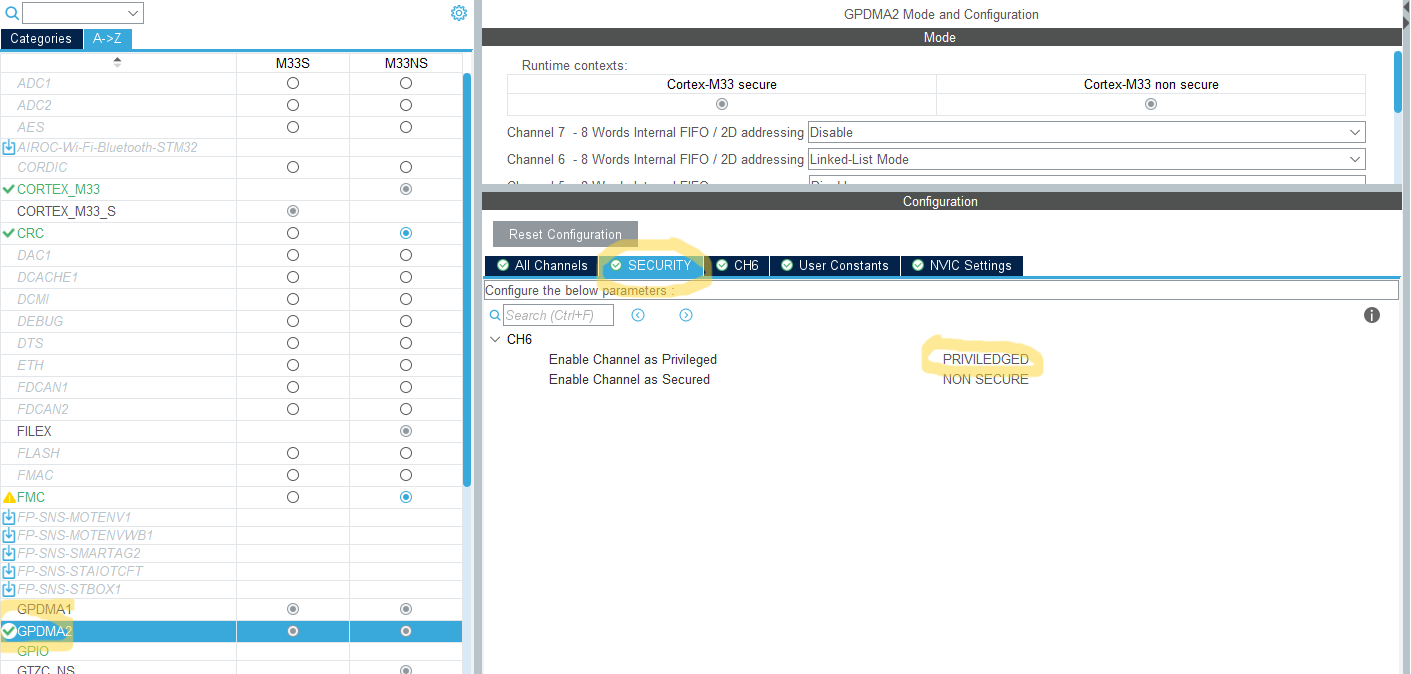
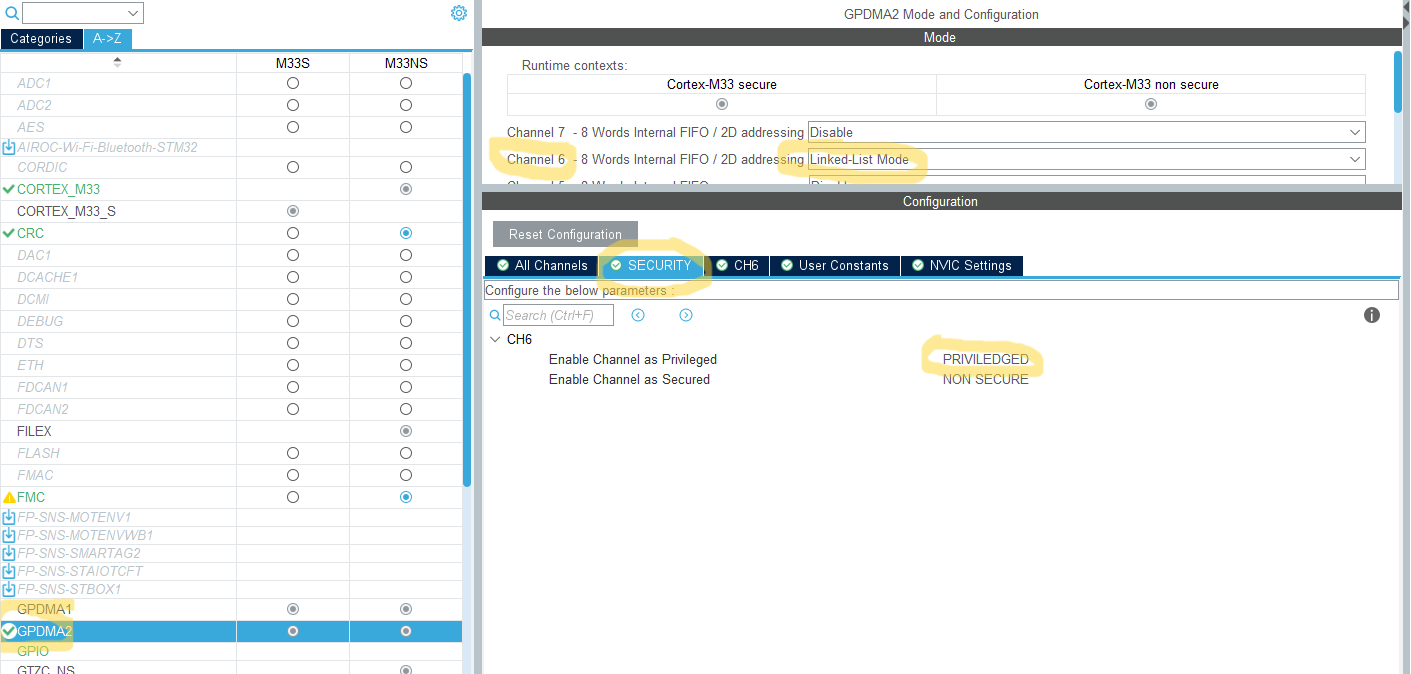
- finalizing readme

Changed region(s): [[0.5301, 0.1869, 0.6549, 0.2804], [0.343, 0.1869, 0.4366, 0.2804]]

diff --git a/README.md b/README.md
@@ -1,43 +1,66 @@
-# Create and debug TouchGFX application with in Secure and Non-Secure project setup
+# Create and debug TouchGFX application with Secure and Non-Secure project setup
 
 Prerequisites:
-- STM32CubeMX(1)
-- STM32CubeIDE
-- STM32H573I-DK
+- [STM32CubeMX (1)](https://www.st.com/en/development-tools/stm32cubemx.html)
+- [STM32CubeIDE](https://www.st.com/en/development-tools/stm32cubeide.html)
+- [STM32H573I-DK](https://www.st.com/en/evaluation-tools/stm32h573i-dk.html) + USB-C cable
+- [TouchGFX Framework](https://support.touchgfx.com/docs/introduction/installation) (X-CUBE-TOUCHGFX middleware, TouchGFX Designer installed)
+- [STM32CubeProgrammer GUI](https://www.st.com/en/development-tools/stm32cubeprog.html)
 
-In this repository you fill find complete working project tested on STM32H573I-DK board.
+This tutorial guides you through a process of creation a **TouchGFX** application starting from the **STM32CubeMX** with a **STM32H5** device with **TrustZone®** (TZ) activated and **Secure** and **Non-Secure** project structure.
+
+In this repository you will find a complete working project tested on the **STM32H573I-DK** board. If you don't want to follow the tutorial, just download the repository, open and build the project.
+
+Note:
+>The Touch screen handling or external flash memory storage is not implemented in this tutorial to keep the tutorial simpler.
 
 ## Configure the Option Bytes
 
 At first, it is needed to prepare STM32H5 device and configure its ***Option Bytes*** to be able to run secure and non-secure application.
 
-1) Connect the board to the PC.
-2) Open STM32CubeProgrammer GUI.
-3) Connect to the STM32H573.
-4) Activate TZ (TrustZone®) ***TZEN*** == B4 and ***Flash Water Mark*** for Flash ***Bank 1*** (Secure) and ***Bank2*** (Non-Secure)*
+1) Connect the board to the PC using USB-C cable.
+2) Open **STM32CubeProgrammer** GUI.
+3) Connect to the STM32H573 by clicking green **Connect** button.
+4) Go to **OB** icon (left vertical bar) and activate TZ: ***TZEN*** == B4 and ***Flash Water Mark*** for Flash ***Bank 1*** (Secure) and ***Bank2*** (Non-Secure)*
+5) Click blue button **Apply**
 
-(*) keeping the _STRT value greater than _END value means sector disabled. See the picture bellow and Bank2 configuration.
+(*) *keeping the _STRT value greater than _END value means sector disabled. See the picture bellow and Bank2 configuration.*
 
 ![](imgs/programmer.png)
 
+Double check **enabled** secure watermark area applied for **Bank1 (0x0 to 0x7f range)** and **disabled** secure watermark area for the **Bank2 (0x1 to 0x0)**. If the secure watermak was enabled also for Bank2 (0x0 to 0x7f) then set back (0x1 to 0x0) and click again blue **Apply** button. The result must be the same like on the picture above.
+
+6) Disconnect from the board by clicking green **Disconnect** button.
+
 ## Create a new project using STM32CubeMX
 
+1) Open **STM32CubeMX**
+2) Start **New project** form MCU and type "STM32H573i" into the searching field and select the parnumber on **STM32H573I-DK** board. Then click blue **Start Project** button.
+![](imgs/MX_stm32h573i.png)
+
+3) Click **Yes** for MPU default settings.
 ![](imgs/ICacheMPUYes.png)
 
+4) Select "**With TrustZone activated**" and click **OK**.  
 ![](imgs/TZYes.png)
 
-Configure PI1 pin as GPIO output push/pull and add User Label "GREEN_LED":
-
+5) In the **Pinout & Configuration** view, configure **PI1** pin as GPIO output push/pull and add **User Label** "GREEN_LED". Assign the pin to the **non-secure** world.
 ![](imgs/PinMX.png)
+![](imgs/PI1.png)
 
-Give the project some name and don't forgot to **uncheck** "Generate Under Root" (this is required by TouchGFX project which will be added later. TouchGFX generator needs to touch .cprojet file and if generated under root, TouchGFX will not find that project file):
+6) Set **HCLK** to maximum frequency **250** MHz. Just put value 250 in HCLK box, confirm by pressing enter and let the **STM32CubeMX** do the job to find the solution.
+![](imgs/CLK250MHz.png)
 
+7) Give the project some name and don't forgot to **uncheck** "**Generate Under Root**" (this is required by TouchGFX project which will be added later. TouchGFX generator needs to touch .cprojet file and if generated under root, TouchGFX will not find that project file resulting in an error after code generation in TouchGFX Designer). As a toolchain select **STM32CubeIDE**. Click the button **Generate Code**.
 ![](imgs/UnderRoot.png)
 
 ## Open the project in STM32CubeIDE
 
-Add these lines in Non-Secure main.c which make the green LED blink:
+The STM32CubeMX creates hiearchical project with root project with the given name and two subprojects with given name and _Secure and _NonSecure suffixes.
 
+![](imgs/SecNonSec.png)
+
+1) Add the lines of code making LED blinking in **Non-Secure** **main.c**.
 ```cpp
 int main(void)
 {
@@ -45,7 +68,7 @@ int main(void)
   /* USER CODE BEGIN WHILE */
   while (1)
   {
-	  HAL_GPIO_TogglePin(LED_GREEN_GPIO_Port, LED_GREEN_Pin);
+	  HAL_GPIO_TogglePin(GREEN_LED_GPIO_Port, GREEN_LED_Pin);
 	  HAL_Delay(250);
     /* USER CODE END WHILE */
 
@@ -54,120 +77,150 @@ int main(void)
   /* USER CODE END 3 */
 }
 ```
+2) Press **Ctrl + B** to build all, no errors should appear.
 
 ### Setup Debug
 
+1) Click with **right mouse button** on _Secure project and select **Debug As** > **STM32 C/C++ Application**
+
+2) In the **debug Configuration** click on **Startup** tab and add a **NonSecure image** in **Load Image and Symbols** list. Change **Build Configuration** to **Debug** for NonSecure project. Keep the rest untouched.
 ![](imgs/DebugSetup.png)
 
-The application boots in a secure state when ***TrustZone®*** is enabled. The debugger sets the ***Program Counter*** using information from the last image in the ***Load image*** and ***Symbols*** table. Make sure the **secure** image is **at the bottom** of the load list.
-
+The application boots in a secure state when ***TrustZone®*** is enabled. The debugger sets the ***Program Counter*** using information from the last image in the ***Load image and Symbols*** table. Make sure the **Secure** image is **at the bottom** of the load list.
 ![](imgs/SecureBottom.png)
+
+3) Click **OK** button to launch the debug session.
+
+You should see the PC at **main.c** in **Secure** project. If you run the application (using **F8** key or **Play** button), the **Secure** code will execute and jump to **NonSecure** application and you should see the **LD6** blinking. This is to verify we have working **Secure** and **NonSecure** application setup and we are able to debug it.
 
 When you run debug next time, be sure to select Secure project when launching debug.
 
-![](imgs/Launch.png)
-
-If you run the application you should see the LD6 blinking. This is to verify we have working Secure and Non-Secure application setup and we are able to debug it.
+![](imgs/DebugLaunch.png)
 
 ## Add TouchGFX SW packgage X-CUBE-TouchGFX
 
-Go to ***Software Packs*** drop down menu and click ***Select Components*** option.
-
+1) Go to **Software Packs** drop down menu and click **Select Components** option.
 ![](imgs/OpenSWPacks.png)
 
-In the ***Software Packs Component Selector*** be sure to select ***Cortex-M33 non secure*** context because the TouchGFX can run only in non secure context.
-
+2) In the **Software Packs Component Selector** be sure to select **Cortex-M33 non secure** context because the **TouchGFX** can run only in **non secure** context.
 ![](imgs/SWPacksTGFX.png)
 
-Then we need to activate TouchGFX middleware.
-
+3) Then we need to activate **TouchGFX** middleware.
 ![](imgs/EnableTGFX.png)
 
-Solve the Dependencies error. The TouchGFX needs to have available CRC peripheral to proper function. You don't need to configure the CRC peripheral, just activate it using check box.
-
+4) Solve the Dependencies error. The **TouchGFX** needs to have available **CRC** peripheral to proper function. You don't need to configure the **CRC** peripheral, just activate it using check box. **CRC** belongs to **non secure** context.
 ![](imgs/ActivateCRC.png)
 
-Activate the FMC
-
-The display on STM32H573I-DK board is connected with 16-bit data bus. To interface this display (equipped with Sitronix ST7789H2 controller) we can use FMC peripheral with LCD mode.
-
-Configure the FMC according to the pictures bellow:
-
+5) Activate the **FMC** for **non secure** context. The display on **STM32H573I-DK** board is connected with 16-bit data bus. To interface this display (Sitronix ST7789H2 controller) we can use **FMC** peripheral with LCD mode. Configure the **FMC** according to the pictures bellow. Disable the **Write FIFO**.
 ![](imgs/MX_FMC_1.png)
 
-Adjust pin assignment according the picture bellow (some of the dedicated pins would need to be moved to alternate position). All the pins, as FMC peripheral itself, belongs to the non-secure world:
-
+6) Check the **FMC** pin assignment according the picture bellow, sorted by **Signal name** (move pins to alternate position if needed to be inline with picture). All the pins, as **FMC** peripheral itself, belongs to the **non secure** context.
 ![](imgs/MX_FMC_pins.png)
 
-Adjust TouchGFX configuration in CubeMX
-
-Once we have activated the FMC controller, we can adjust configuration in the CubeMX for TouchGFX middleware to use FMC.
-
+7) Adjust **TouchGFX** configuration in **STM32CubeMX**. Once we have activated the **FMC** controller, we can adjust configuration in the **STM32CubeMX** for **TouchGFX** middleware to use **FMC**. Set proper display size (240 x 240 px) and select **double frame buffer** - it will fit inside the internal SRAM (double FB size = 240 x 240 x 2 x 2 = 225 KB)
 ![](imgs/CubeMX_TGFX_FMC.png)
 
-If you generate by CubeMX the project now (just enabling TouchGFX and CRC) and then try to build the project, you will receive an errors, because the project is not complete.
+If you generate the project by **STM32CubeMX** now and then try to build the project, you will receive **expected errors**, because the project is **not complete**.
 
 ![](imgs/Errors.png)
 
-We must generate project in the TouchGFX Designer to have complete project.
+We must generate project in the **TouchGFX Designer** to have complete project.
 
-1) Open the ***.touchgfx.part*** partial project file located in /NonSecure/TouchGFX/:
+## Generate TouchGFX project in the TouchGFX Designer
 
+1) Open the **.touchgfx.part** partial project file located in /NonSecure/TouchGFX/:
 ![](imgs/part.png)
 
 2) This will open the project in the ***TouchGFX Designer***. There you can select ***blank UI*** for initial project and click on ***Import*** button.
-
 ![](imgs/TouchGFXDesigner-BlankUI.png)
 
-3) Add some basic shapes on the screen (canvas) to see later at least something on the display. You can put a white rectangle and spread it across all the screen to create a white background and then place somewhere a circle of any color.
-
+3) Add some basic shapes on the screen (canvas) to see at least something on the display later. You can put a white rectangle and spread it across all the screen to create a white background and then place somewhere a circle of any color.
 ![](imgs/TouchGFXDesigner_canvas.png)
 
-4) Now just click Generate button (or press F4) to generate TouchGFX project.
-
+4) Now just click **Generate button** (or press F4) to generate **TouchGFX** project.
 ![](imgs/TouchGFXDesignergenerate.png)
 
 5) You should see green label at the bottom status bar informing about successfull generation.
-
 ![](imgs/TouchGFXDesigner-success.png)
 
-At this point the TouchGFX application will not be showing anything on the display and would require some more adjustments.
+At this point we are **able to build** the application **without any error**. If you start debugging, you will see running **TouchGFX** application. But the **TouchGFX** application will not be showing anything on the display and requires some more adjustments. 
+
+Before we proceed further, **remove** or comment out **testing code** in the main.c (**non secure**) which blinks the green LED.
+
+```cpp
+...
+  // HAL_GPIO_TogglePin(GREEN_LED_GPIO_Port, GREEN_LED_Pin);
+  // HAL_Delay(250);
+...
+```
 
 ## GPIOs
 
-We need to add some more GPIOs to handle display correctly. Configure the GPIO pins with the given **User Labels**.
+We need to add some more **GPIOs** to handle display correctly. Configure the GPIO pins with the given **User Labels**.
 
-1) The pin enabling power to display **PC6** (with label "**LCD_DISP**"). Default GPIO output level **Low** means the display will have a power just after initialization of this pin.
+1) The pin enabling power to display **PC6** (with label "**LCD_DISP**") - GPIO **output** push/pull. Default **GPIO output level** **Low** means the display will have a power just after initialization of this pin.
 
-2) Input pin catching tearing effect (TE) signal from the display **PD3** (put there label "**LCD_TE**"). We need to enable **GPIO_EXTI3** on this pin to catch interrupts from the display TE pin.
-![](imgs/EXTI3.png)
+2) **Input** pin catching tearing effect (TE) signal from the display **PD3** (put there label "**LCD_TE**"). We need to enable **GPIO_EXTI3** on this pin to catch interrupts from the display TE pin. (**TouchGFX** rendering is triggered by this signal)
+![](imgs/EXTI3.png) 
+Then go to **NVIC_NS** settings and enable interrupts on **EXTI line 3** by clicking on the checkbox.
+![](imgs/NVIC_EXTI3.png)
 
-3) The pin controlling the display reset line **PH13** (with label "**LCD_RESET**").
+3) The pin controlling the display reset line **PH13** (with label "**LCD_RESET**"). GPIO **output** push/pull with **GPIO output level** **High**.
 
-4) The pin controlling the backlight **PI3** (with label "**LCD_BL_CTRL**"). Nothing special here, we just configure the pin with the **GPIO output level** to be **High** which means that after the pin initialization the backlight will be on.
+4) The pin controlling the backlight **PI3** (with label "**LCD_BL_CTRL**"). GPIO **output** push/pull with **GPIO output level** **High** which means that after the pin initialization the display backlight will be on.
 
 See the summary bellow:
 ![](imgs/GPIOs.png)
 
 ## Adjust avaliable heap and stack size
 
-TouchGFX application would require more RAM memory than default values for heap and stack size. Enlarge stack and heap size for non-secure application in CubeMX Project Manager.
+TouchGFX application would require more RAM memory than default values for heap and stack size. Enlarge stack and heap size for non-secure application in STM32CubeMX Project Manager.
 
 ![](imgs/MX_heapStack.png)
 
-Be aware that if you modify the linker file manually in the linker file then it will be re-generated (reverted) to default values when you re-generate the project in the CubeMX.
+Be aware that if you modify the linker file manually in the linker file then it will be re-generated (reverted) to default values when you re-generate the project in the STM32CubeMX.
 
 ## MPCWM settings in GTZC (Global TZ Controller)
 
-By default all externall memories address ranges are allocated for secure world. The FMC Bank1 address space will not be working until we enable the access for non-secure application. To enable it we need to configure MPCWM (Memory Protection Controller - Watermark Based) in CubeMX under GTZC_S section.
+By default all externall memories address ranges are allocated for secure world. The FMC Bank1 address space will not be working until we enable the access for non-secure application. To enable it we need to configure MPCWM (Memory Protection Controller - Watermark Based) in STM32CubeMX under GTZC_S section.
 
+We need to set the very beginning of the **FMC bank 1** address space attribute to **not secure**. The minimum not zero size is 0x20000, let's use this value for **MPCWM2 (FMC_NOR)** and **Area 1**. Check the picture bellow.
 ![](imgs/MPCWM.png)
 
 ## GPDMA settings
 
-You need to change the GPDMA channel security attribute to "Priviledged"
+**GPDMA2** is used to offload CPU when the FB is transfered to the GRAM of the display through the **FMC** interface. Just select the **GPDMA2 channel 6**. It is enough to activate it. All the configuration is done in the code we will add later.
+
+And one more thing: You need to change the **GPDMA channel 6** security attribute to "**Priviledged**"...
 
 ![](imgs/GPDMA_priviledged.png)
 
+... and enable NVIC interrupt for GPDMA2 CH6.
+
+![](imgs/NVIC_GPDMA2CH6.png)
+
+**Generate the project** again in STM32CubeMX.
+
+## Add needed source code
+
+Finally we must add a source code in the **TouchGFXHAL.cpp**
+```
+ c:\....\[your prj name]\NonSecure\TouchGFX\target\TouchGFXHAL.cpp
+ ```
+ ![](imgs/TouchGFXHALcpp.png)
+
+ To make things easier here, replace all the content of your **TouchGFXHAL.cpp** with the content from this repository:
+
+ [TouchGFXHAL.cpp](NonSecure/TouchGFX/target/TouchGFXHAL.cpp)
+
+Build the application (Ctrl + B) in CubeIDE and launch debug or flash the application.
+
+**Reminder**: *Don't forget to select firstly **Secure project** before clicking bug icon to launch debug session.* [see here](README.md#setup-debug)
+
 ---
-By default (default CubeMX settings) every SRAM region is secure and there is allocated unneccessary amount of SRAM for secure application and only part of available SRAM for non-secure application. The allocated SRAM for secure application can be reduced allowing more SRAM to be allocated to non-secure application (by adjusting linker file and Block-Based Memory Protection Contrloller tab in MX in GTZC_S).
+### Now you should see finally your screen layout on the display.
+
+---
+
+Note:
+> By default (default STM32CubeMX settings) a huge portion of SRAM memory is allocated for **secure** application which is unnecesary and rest of available SRAM for **non-secure** application. The allocated SRAM for **secure** application can be reduced allowing more SRAM to be allocated to **non-secure** application (by adjusting linker file and **Block-Based Memory Protection Contrloller** tab in STM32CubeMX in **GTZC_S** section).